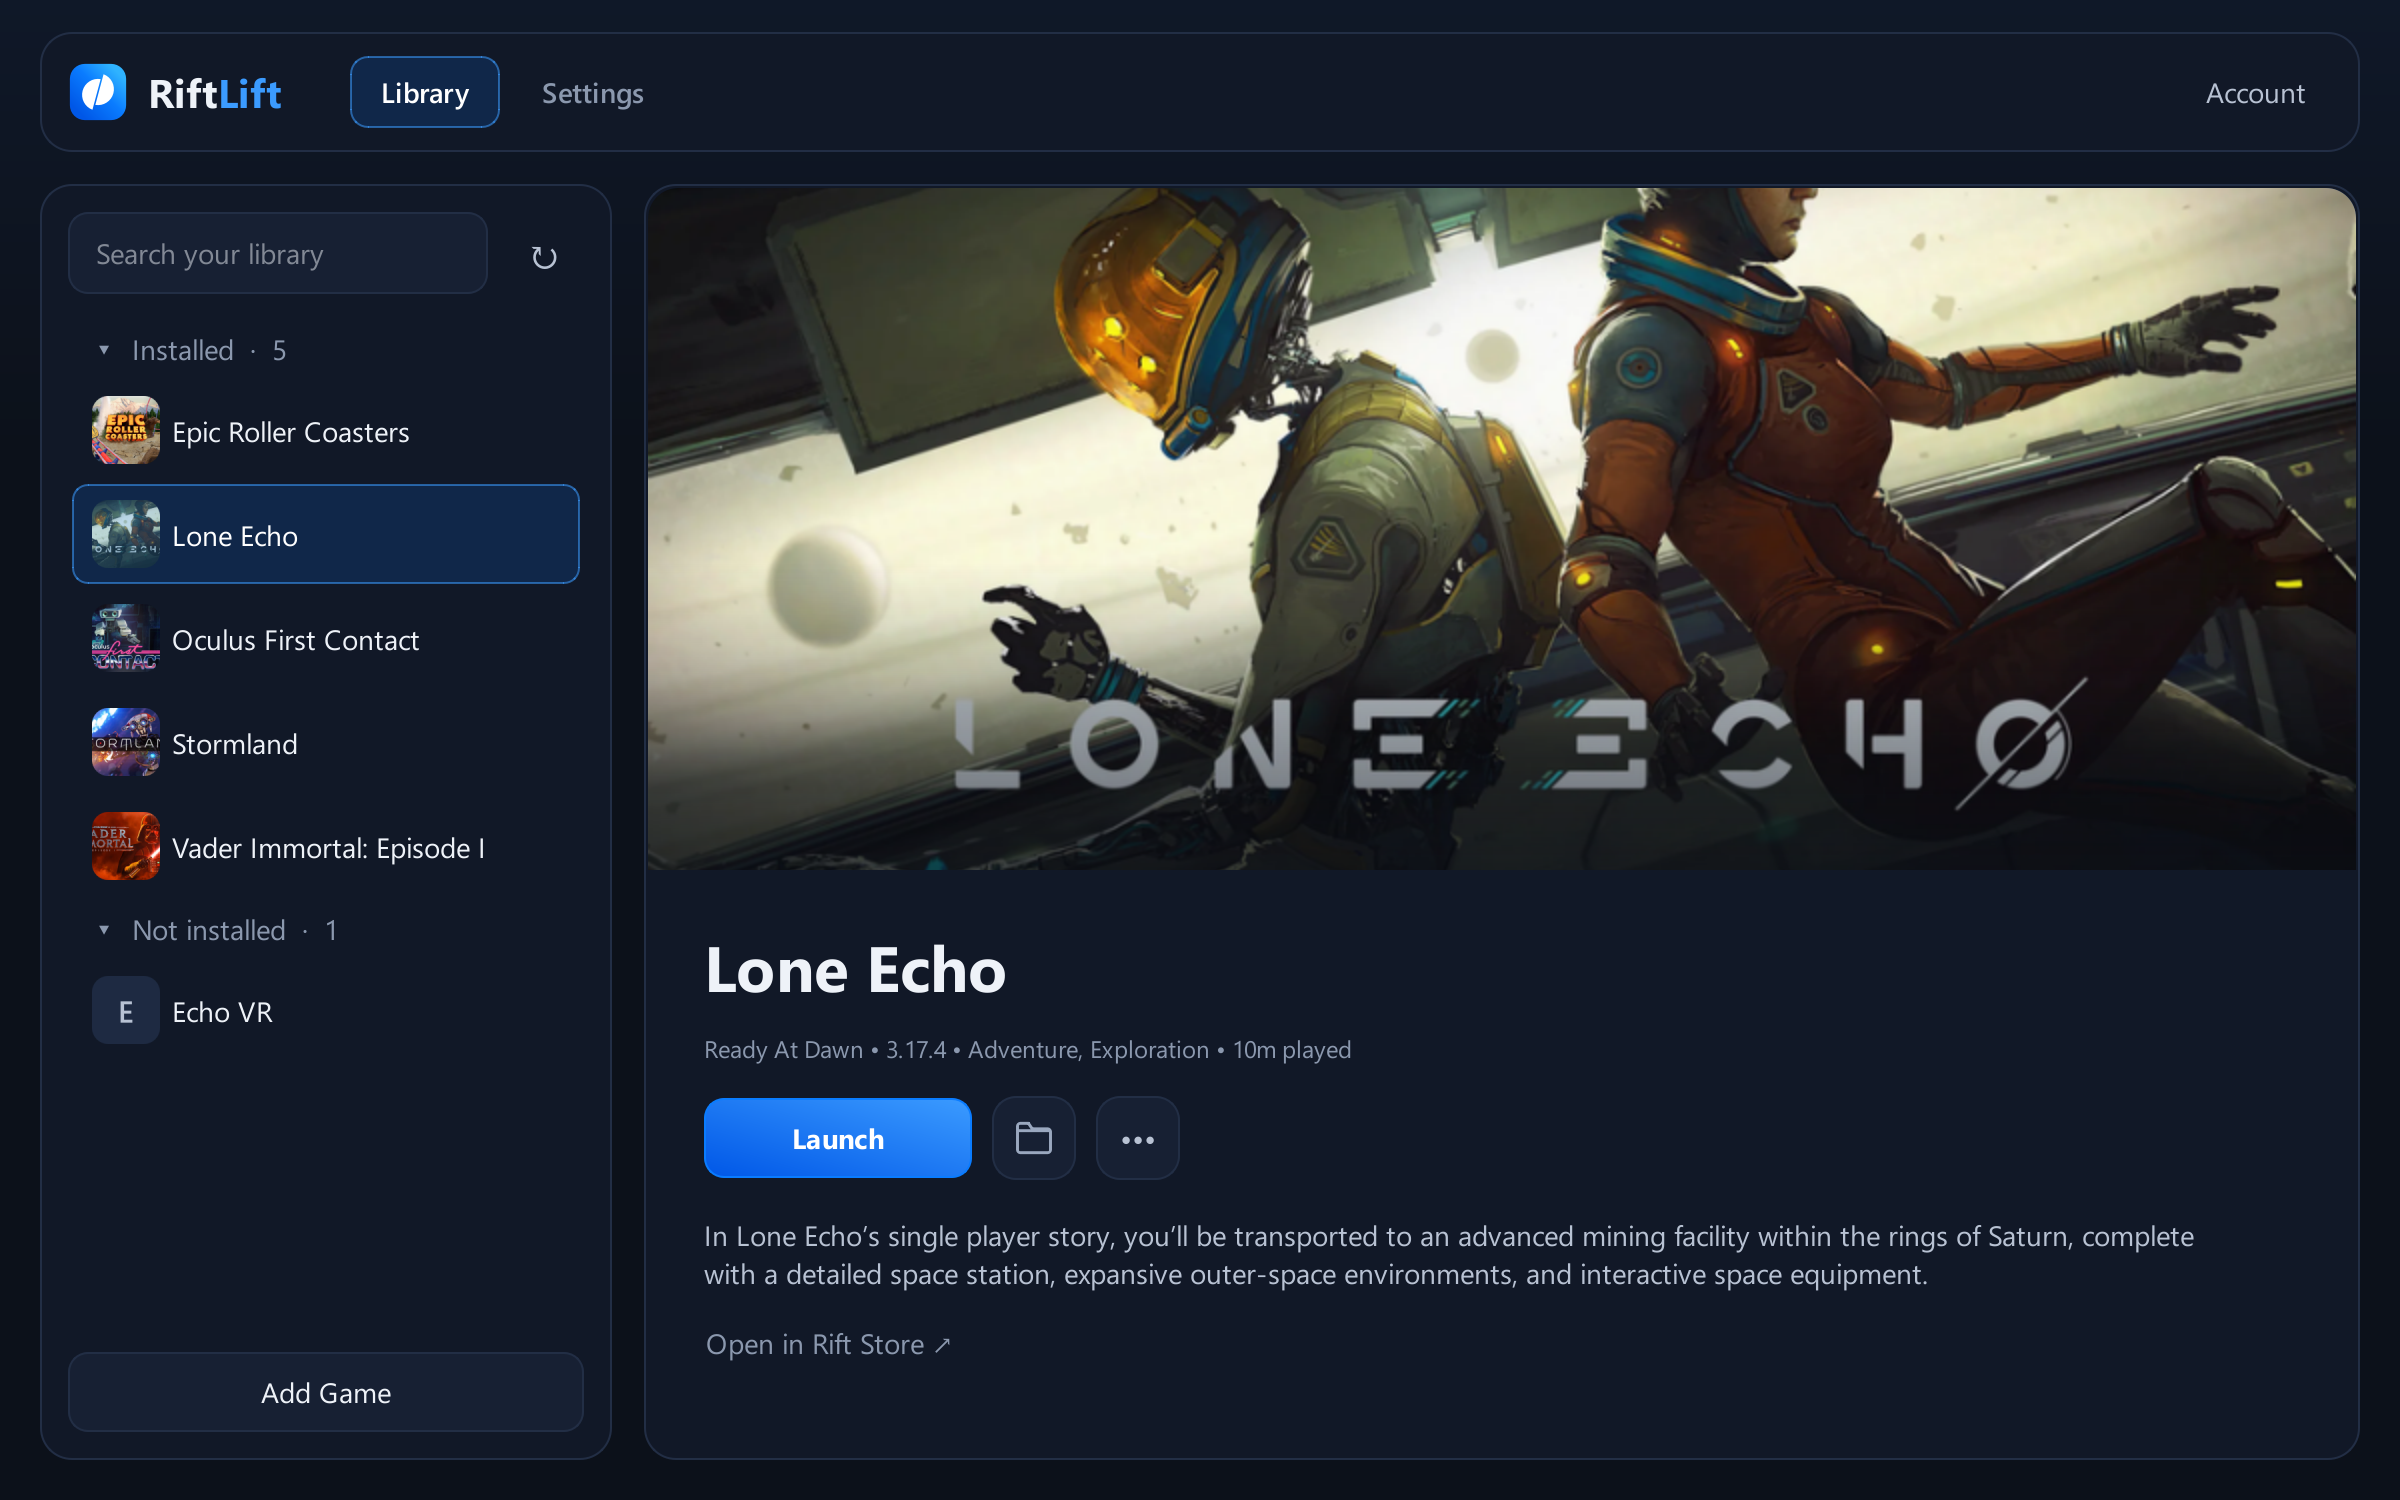
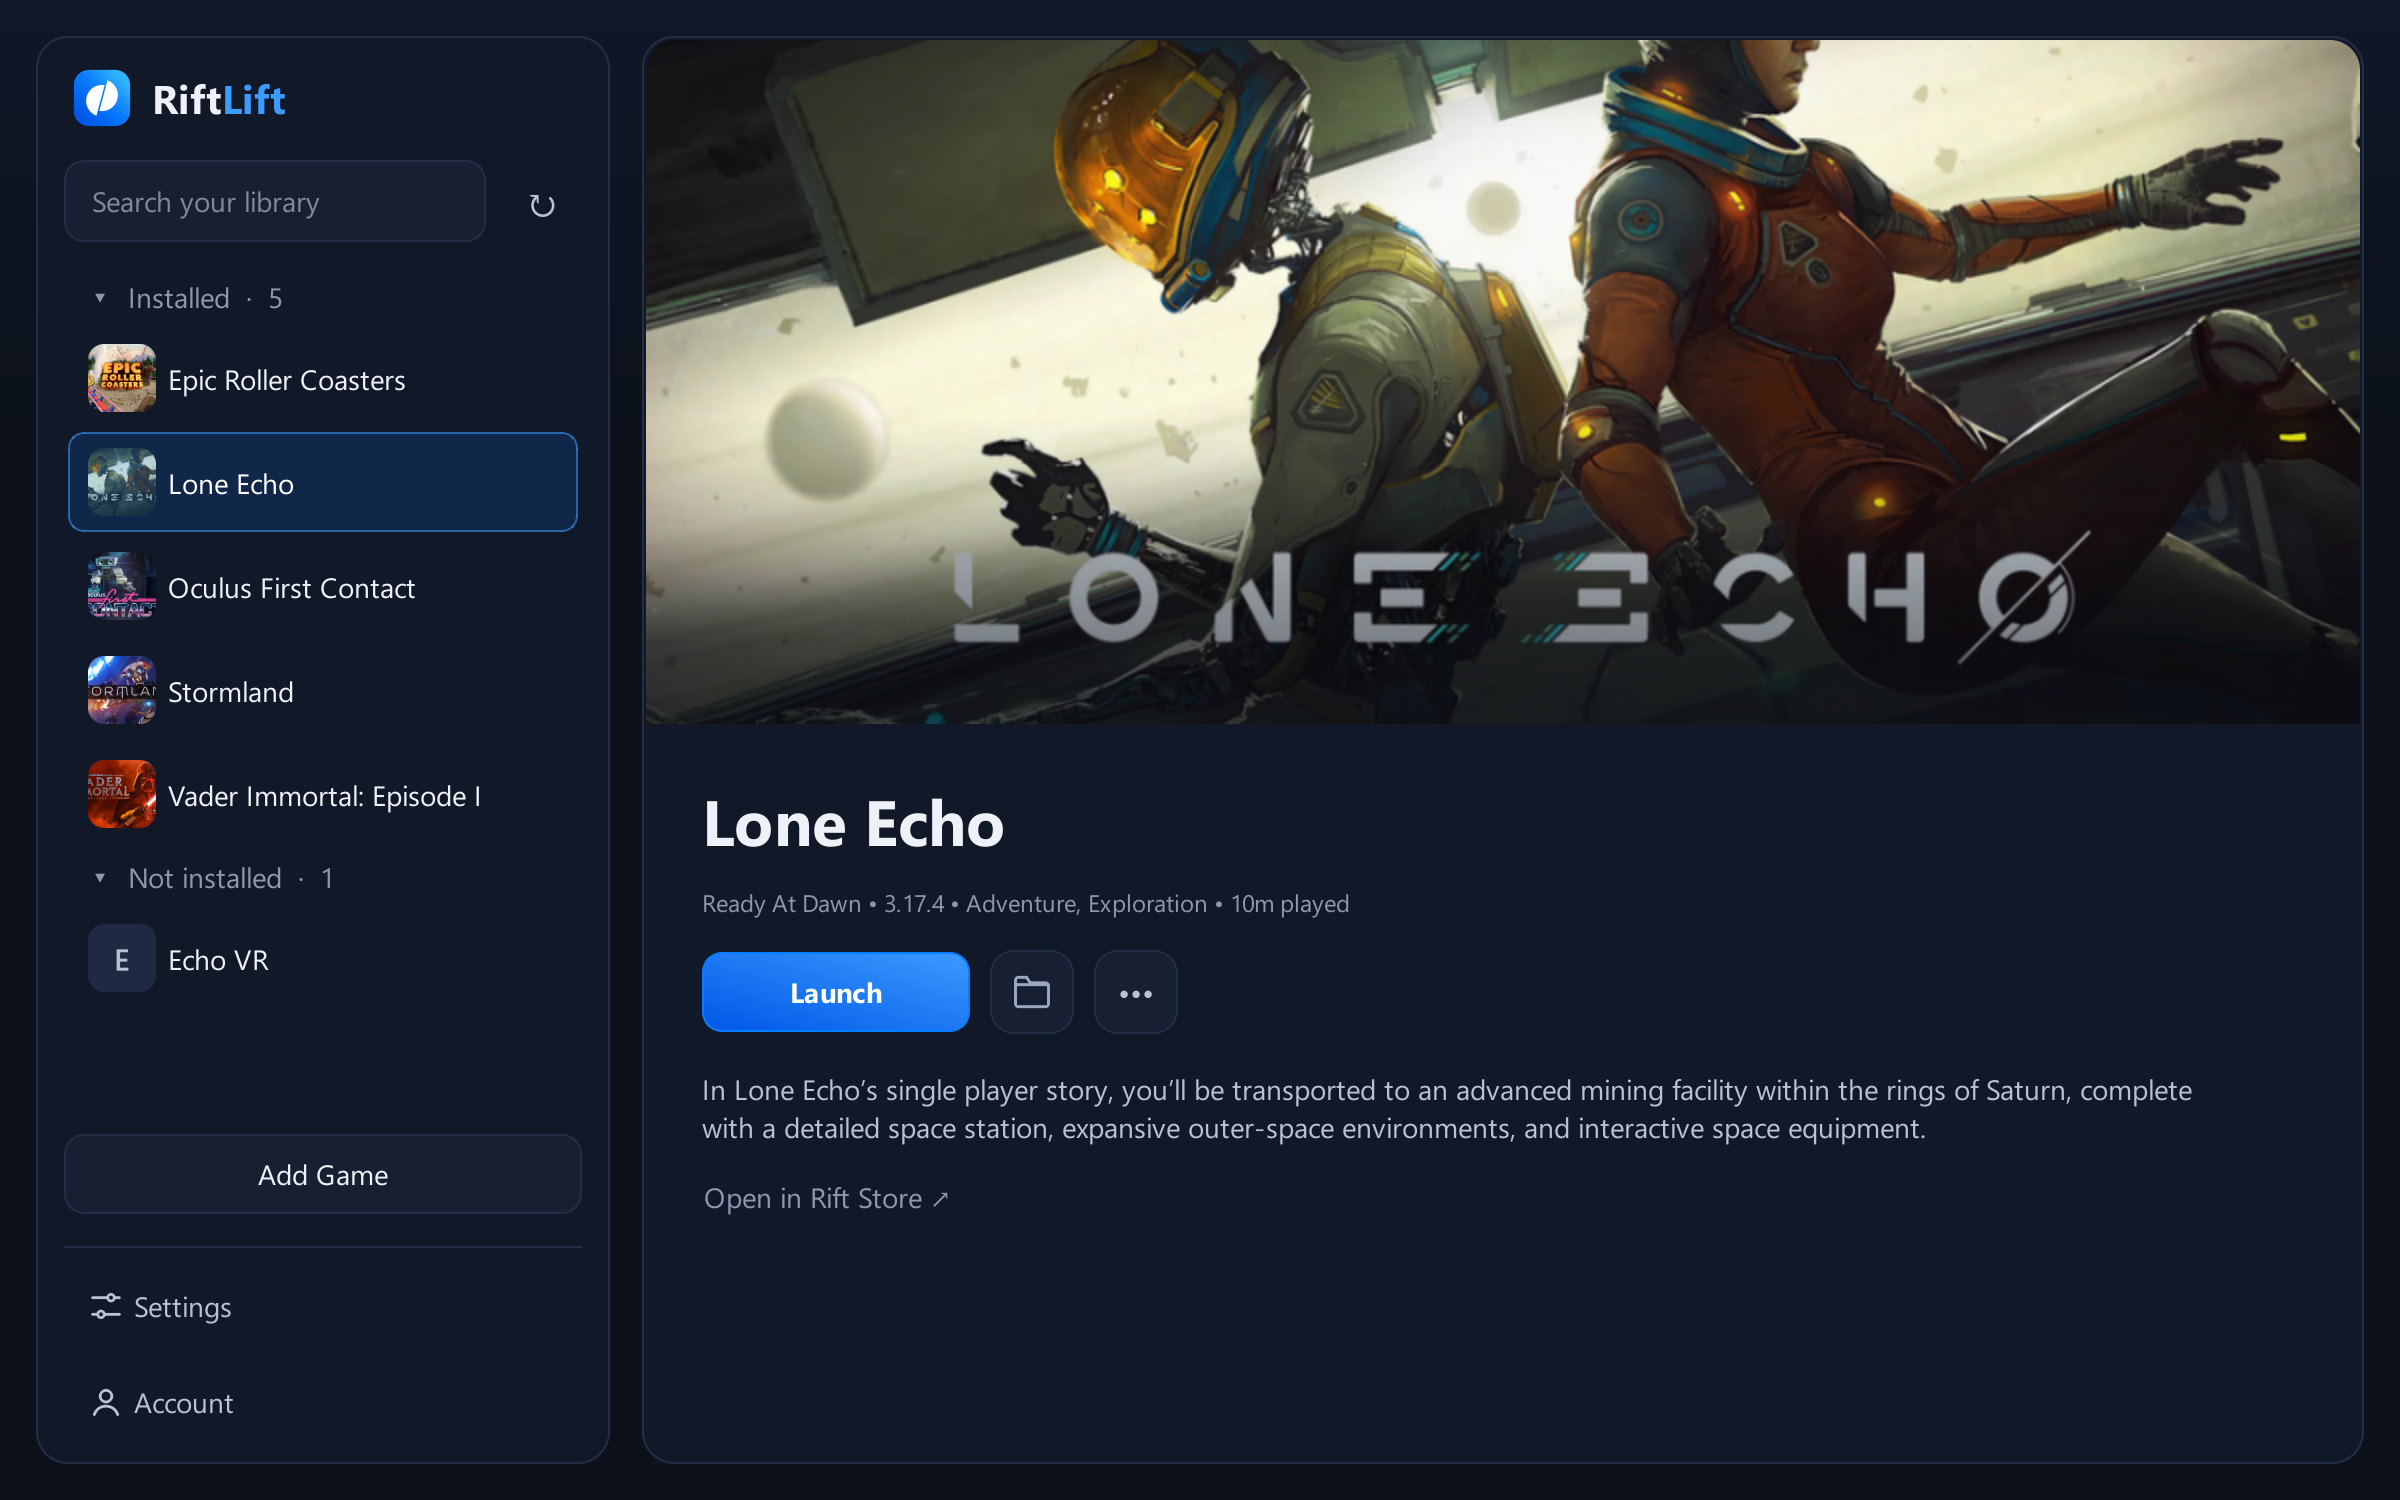
Replace the top bar with a sidebar-led layout
The window is two top-aligned columns. The sidebar carries the logo,
search, library and Add Game, with Settings and Account as navigation
rows below a divider; the right column shows the selected game or
Settings. Settings is highlighted while open, and picking a game from
the sidebar returns to it.

diff --git a/src/riftlift/native_shell.py b/src/riftlift/native_shell.py
@@ -211,48 +211,8 @@ class NativePresentation:
         root.setObjectName("root")
         self.setCentralWidget(root)
         outer = QtWidgets.QVBoxLayout(root)
-        outer.setContentsMargins(20, 16, 20, 20)
+        outer.setContentsMargins(18, 18, 18, 18)
         outer.setSpacing(16)
-
-        topbar = QtWidgets.QWidget()
-        topbar.setObjectName("topbar")
-        topbar.setAttribute(QtCore.Qt.WA_StyledBackground, True)
-        header = QtWidgets.QHBoxLayout(topbar)
-        header.setContentsMargins(14, 10, 10, 10)
-        header.setSpacing(6)
-        mark = QtWidgets.QLabel()
-        mark.setPixmap(brand_icon().pixmap(30, 30))
-        header.addWidget(mark)
-        header.addSpacing(4)
-        brand = QtWidgets.QLabel(f"Rift<span style='color:{BLUE_LIGHT}'>Lift</span>")
-        brand.setObjectName("brand")
-        brand.setTextFormat(QtCore.Qt.RichText)
-        brand.setAccessibleName("RiftLift")
-        header.addWidget(brand)
-        header.addSpacing(28)
-        # Library / Settings tabs show which view is open.
-        self.library_tab = self.button(LIBRARY("title"), self._leave_settings)
-        self.settings_button = self.button(NAV("settings"), self.show_settings)
-        for tab in (self.library_tab, self.settings_button):
-            tab.setObjectName("tab")
-            tab.setCheckable(True)
-            tab.setAutoExclusive(True)
-            header.addWidget(tab)
-        self.library_tab.setChecked(True)
-        header.addSpacing(16)
-        self.now_playing_icon = QtWidgets.QLabel()
-        self.now_playing_icon.setFixedSize(24, 24)
-        self.now_playing_icon.hide()
-        header.addWidget(self.now_playing_icon)
-        self.now_playing_label = self.label("", "muted")
-        self.now_playing_label.setTextFormat(QtCore.Qt.RichText)
-        self.now_playing_label.hide()
-        header.addWidget(self.now_playing_label)
-        header.addStretch()
-        self.signin = self.button(NAV("sign_in"), self.show_auth)
-        self.signin.setObjectName("ghost")
-        header.addWidget(self.signin)
-        outer.addWidget(topbar)
 
         self.setup_banner = QtWidgets.QWidget()
         self.setup_banner.setObjectName("setup_banner")
@@ -266,9 +226,9 @@ class NativePresentation:
         self.setup_banner.hide()
         outer.addWidget(self.setup_banner)
 
-        self.view_stack = QtWidgets.QStackedWidget()
-        main_view = QtWidgets.QWidget()
-        content = QtWidgets.QHBoxLayout(main_view)
+        # Two columns: the sidebar carries the brand, library and navigation;
+        # the right column shows the selected game or Settings.
+        content = QtWidgets.QHBoxLayout()
         content.setContentsMargins(0, 0, 0, 0)
         content.setSpacing(16)
         sidebar = QtWidgets.QWidget()
@@ -277,9 +237,24 @@ class NativePresentation:
         sidebar.setMinimumWidth(250)
         sidebar.setMaximumWidth(320)
         left = QtWidgets.QVBoxLayout(sidebar)
-        left.setContentsMargins(14, 14, 14, 14)
+        left.setContentsMargins(14, 16, 14, 12)
         left.setSpacing(10)
-        # The Library tab names this panel; search and refresh share one row.
+
+        brand_row = QtWidgets.QHBoxLayout()
+        brand_row.setContentsMargins(4, 0, 0, 0)
+        brand_row.setSpacing(10)
+        mark = QtWidgets.QLabel()
+        mark.setPixmap(brand_icon().pixmap(30, 30))
+        brand_row.addWidget(mark)
+        brand = QtWidgets.QLabel(f"Rift<span style='color:{BLUE_LIGHT}'>Lift</span>")
+        brand.setObjectName("brand")
+        brand.setTextFormat(QtCore.Qt.RichText)
+        brand.setAccessibleName("RiftLift")
+        brand_row.addWidget(brand)
+        brand_row.addStretch()
+        left.addLayout(brand_row)
+        left.addSpacing(6)
+
         heading = QtWidgets.QHBoxLayout()
         heading.setSpacing(8)
         self.refresh_button = self.button("↻", self.refresh_all)
@@ -303,6 +278,7 @@ class NativePresentation:
         self.tree.setHorizontalScrollBarPolicy(QtCore.Qt.ScrollBarAlwaysOff)
         self.tree.currentItemChanged.connect(self._tree_item_changed)
         self.tree.itemClicked.connect(self._category_clicked)
+        self.tree.itemClicked.connect(self._return_to_library)
         self.tree.itemExpanded.connect(self._category_toggled)
         self.tree.itemCollapsed.connect(self._category_toggled)
         self._categories = []
@@ -320,6 +296,37 @@ class NativePresentation:
         self.addbtn = self.button(NAV("add_game"), lambda: self.add_dialog())
         left.addWidget(self.steam_games)
         left.addWidget(self.addbtn)
+
+        now_playing = QtWidgets.QHBoxLayout()
+        now_playing.setContentsMargins(4, 4, 0, 0)
+        now_playing.setSpacing(10)
+        self.now_playing_icon = QtWidgets.QLabel()
+        self.now_playing_icon.setFixedSize(24, 24)
+        self.now_playing_icon.hide()
+        now_playing.addWidget(self.now_playing_icon)
+        self.now_playing_label = self.label("", "muted")
+        self.now_playing_label.setTextFormat(QtCore.Qt.RichText)
+        self.now_playing_label.hide()
+        now_playing.addWidget(self.now_playing_label, 1)
+        left.addLayout(now_playing)
+
+        divider = QtWidgets.QFrame()
+        divider.setObjectName("divider")
+        divider.setFixedHeight(1)
+        left.addSpacing(2)
+        left.addWidget(divider)
+        assets = files("riftlift").joinpath("assets")
+        self.settings_button = self.button(NAV("settings"), self._toggle_settings)
+        self.settings_button.setCheckable(True)
+        self.signin = self.button(NAV("sign_in"), self.show_auth)
+        for widget, icon in (
+            (self.settings_button, "settings"),
+            (self.signin, "account"),
+        ):
+            widget.setObjectName("nav")
+            widget.setIcon(QtGui.QIcon(str(assets.joinpath(f"{icon}.svg"))))
+            widget.setIconSize(QtCore.QSize(20, 20))
+            left.addWidget(widget)
         content.addWidget(sidebar, 1)
 
         self.stack = QtWidgets.QStackedWidget()
@@ -347,15 +354,16 @@ class NativePresentation:
         scroll.setFrameShape(QtWidgets.QFrame.NoFrame)
         scroll.setHorizontalScrollBarPolicy(QtCore.Qt.ScrollBarAlwaysOff)
         scroll.setWidget(self.stack)
-        content.addWidget(scroll, 3)
-        self.view_stack.addWidget(main_view)
+        self.view_stack = QtWidgets.QStackedWidget()
+        self.view_stack.addWidget(scroll)
         settings = QtWidgets.QScrollArea()
         settings.setWidgetResizable(True)
         settings.setFrameShape(QtWidgets.QFrame.NoFrame)
         self.settings_page = self._make_settings()
         settings.setWidget(self.settings_page)
         self.view_stack.addWidget(settings)
-        outer.addWidget(self.view_stack, 1)
+        content.addWidget(self.view_stack, 3)
+        outer.addLayout(content, 1)
 
         # Task handlers retain their status text internally without a footer.
         self.status = self.label(namespace("status")("ready"), "muted")

diff --git a/src/riftlift/native_theme.py b/src/riftlift/native_theme.py
@@ -39,7 +39,6 @@ QMainWindow {{ background: {BACKGROUND}; }}
 QDialog {{ background: qlineargradient(x1:0, y1:0, x2:0, y2:1, stop:0 {GLOW}, stop:0.3 {BACKGROUND}, stop:1 {BACKGROUND}); }}
 QWidget#root {{ background: qlineargradient(x1:0, y1:0, x2:0, y2:1, stop:0 {GLOW}, stop:0.3 {BACKGROUND}, stop:1 {BACKGROUND}); }}
 QStackedWidget#content {{ background: {PANEL}; border: 1px solid {BORDER}; border-radius: 16px; }}
-QWidget#topbar {{ background: {PANEL}; border: 1px solid {BORDER}; border-radius: 16px; }}
 QWidget#sidebar {{ background: {PANEL}; border: 1px solid {BORDER}; border-radius: 16px; }}
 QToolTip {{ background: {CONTROL}; color: {TEXT}; border: 1px solid {BORDER_STRONG};
  border-radius: 6px; padding: 6px 8px; }}
@@ -58,11 +57,12 @@ QPushButton:disabled {{ color: {TEXT_DISABLED}; background: {PANEL}; border-colo
 QPushButton#ghost {{ background: transparent; border: 1px solid transparent; color: {TEXT_SOFT}; }}
 QPushButton#ghost:hover {{ background: {CONTROL}; border-color: {BORDER}; color: {TEXT}; }}
 QPushButton#ghost:focus {{ border: 2px solid {FOCUS}; }}
-QPushButton#tab {{ background: transparent; border: 1px solid transparent; border-radius: 9px;
- color: {TEXT_MUTED}; font-weight: 600; padding: 7px 14px; }}
-QPushButton#tab:hover {{ background: {CONTROL}; color: {TEXT}; }}
-QPushButton#tab:checked {{ background: {SELECTION}; border-color: {SELECTION_BORDER}; color: #ffffff; }}
-QPushButton#tab:focus {{ border: 2px solid {FOCUS}; }}
+QPushButton#nav {{ background: transparent; border: 1px solid transparent; border-radius: 9px;
+ color: {TEXT_SOFT}; text-align: left; padding: 8px 10px; }}
+QPushButton#nav:hover {{ background: {CONTROL}; color: {TEXT}; }}
+QPushButton#nav:checked {{ background: {SELECTION}; border-color: {SELECTION_BORDER}; color: #ffffff; }}
+QPushButton#nav:focus {{ border: 2px solid {FOCUS}; }}
+QFrame#divider {{ background: {BORDER}; border: 0; }}
 QPushButton#primary {{ background: {ACCENT_GRADIENT}; color: #ffffff; border: 1px solid {BLUE};
  font-weight: 700; min-width: 100px; }}
 QPushButton#primary:hover {{ background: {ACCENT_GRADIENT_HOVER}; border-color: {BLUE_LIGHT}; }}

diff --git a/src/riftlift/main_window.py b/src/riftlift/main_window.py
@@ -287,14 +287,25 @@ class Window(NativePresentation, QtWidgets.QMainWindow):
     def _finish_system_status_check(self, healthy: bool, message: str) -> None:
         self.settings_page.set_status(healthy, message)
 
+    def _toggle_settings(self):
+        if self.view_stack.currentIndex() == 1:
+            self._leave_settings()
+        else:
+            self.show_settings()
+
     def show_settings(self):
         self.view_stack.setCurrentIndex(1)
         self.settings_button.setChecked(True)
         self._check_system_status()
 
+    def _return_to_library(self, item, _column=0):
+        # Picking a game from the sidebar while Settings is open shows that game.
+        if self.view_stack.currentIndex() == 1 and item.parent() is not None:
+            self._leave_settings()
+
     def _leave_settings(self):
         self.view_stack.setCurrentIndex(0)
-        self.library_tab.setChecked(True)
+        self.settings_button.setChecked(False)
         (self.tree if self.tree.currentItem() else self.search).setFocus()
 
     def _confirm_language_change(self, code: str) -> bool:

diff --git a/tests/test_gui.py b/tests/test_gui.py
@@ -348,13 +348,13 @@ def test_header_button_toggles_between_settings_and_library(
     app = QtWidgets.QApplication.instance() or QtWidgets.QApplication([])
     window = Window(paths)
 
-    assert window.library_tab.isChecked()
+    assert not window.settings_button.isChecked()
     window.settings_button.click()
     assert window.view_stack.currentIndex() == 1
     assert window.settings_button.isChecked()
-    window.library_tab.click()
+    window.settings_button.click()
     assert window.view_stack.currentIndex() == 0
-    assert window.library_tab.isChecked()
+    assert not window.settings_button.isChecked()
 
     window.close()
     app.processEvents()

diff --git a/src/riftlift/pages/settings.py b/src/riftlift/pages/settings.py
@@ -34,7 +34,7 @@ class SettingsPage(QtWidgets.QWidget):
         self.paths = paths
         self._on_language_change = on_language_change
         layout = QtWidgets.QVBoxLayout(self)
-        layout.setContentsMargins(24, 24, 24, 24)
+        layout.setContentsMargins(4, 4, 8, 8)
         layout.setSpacing(16)
         layout.setAlignment(QtCore.Qt.AlignTop)
 
